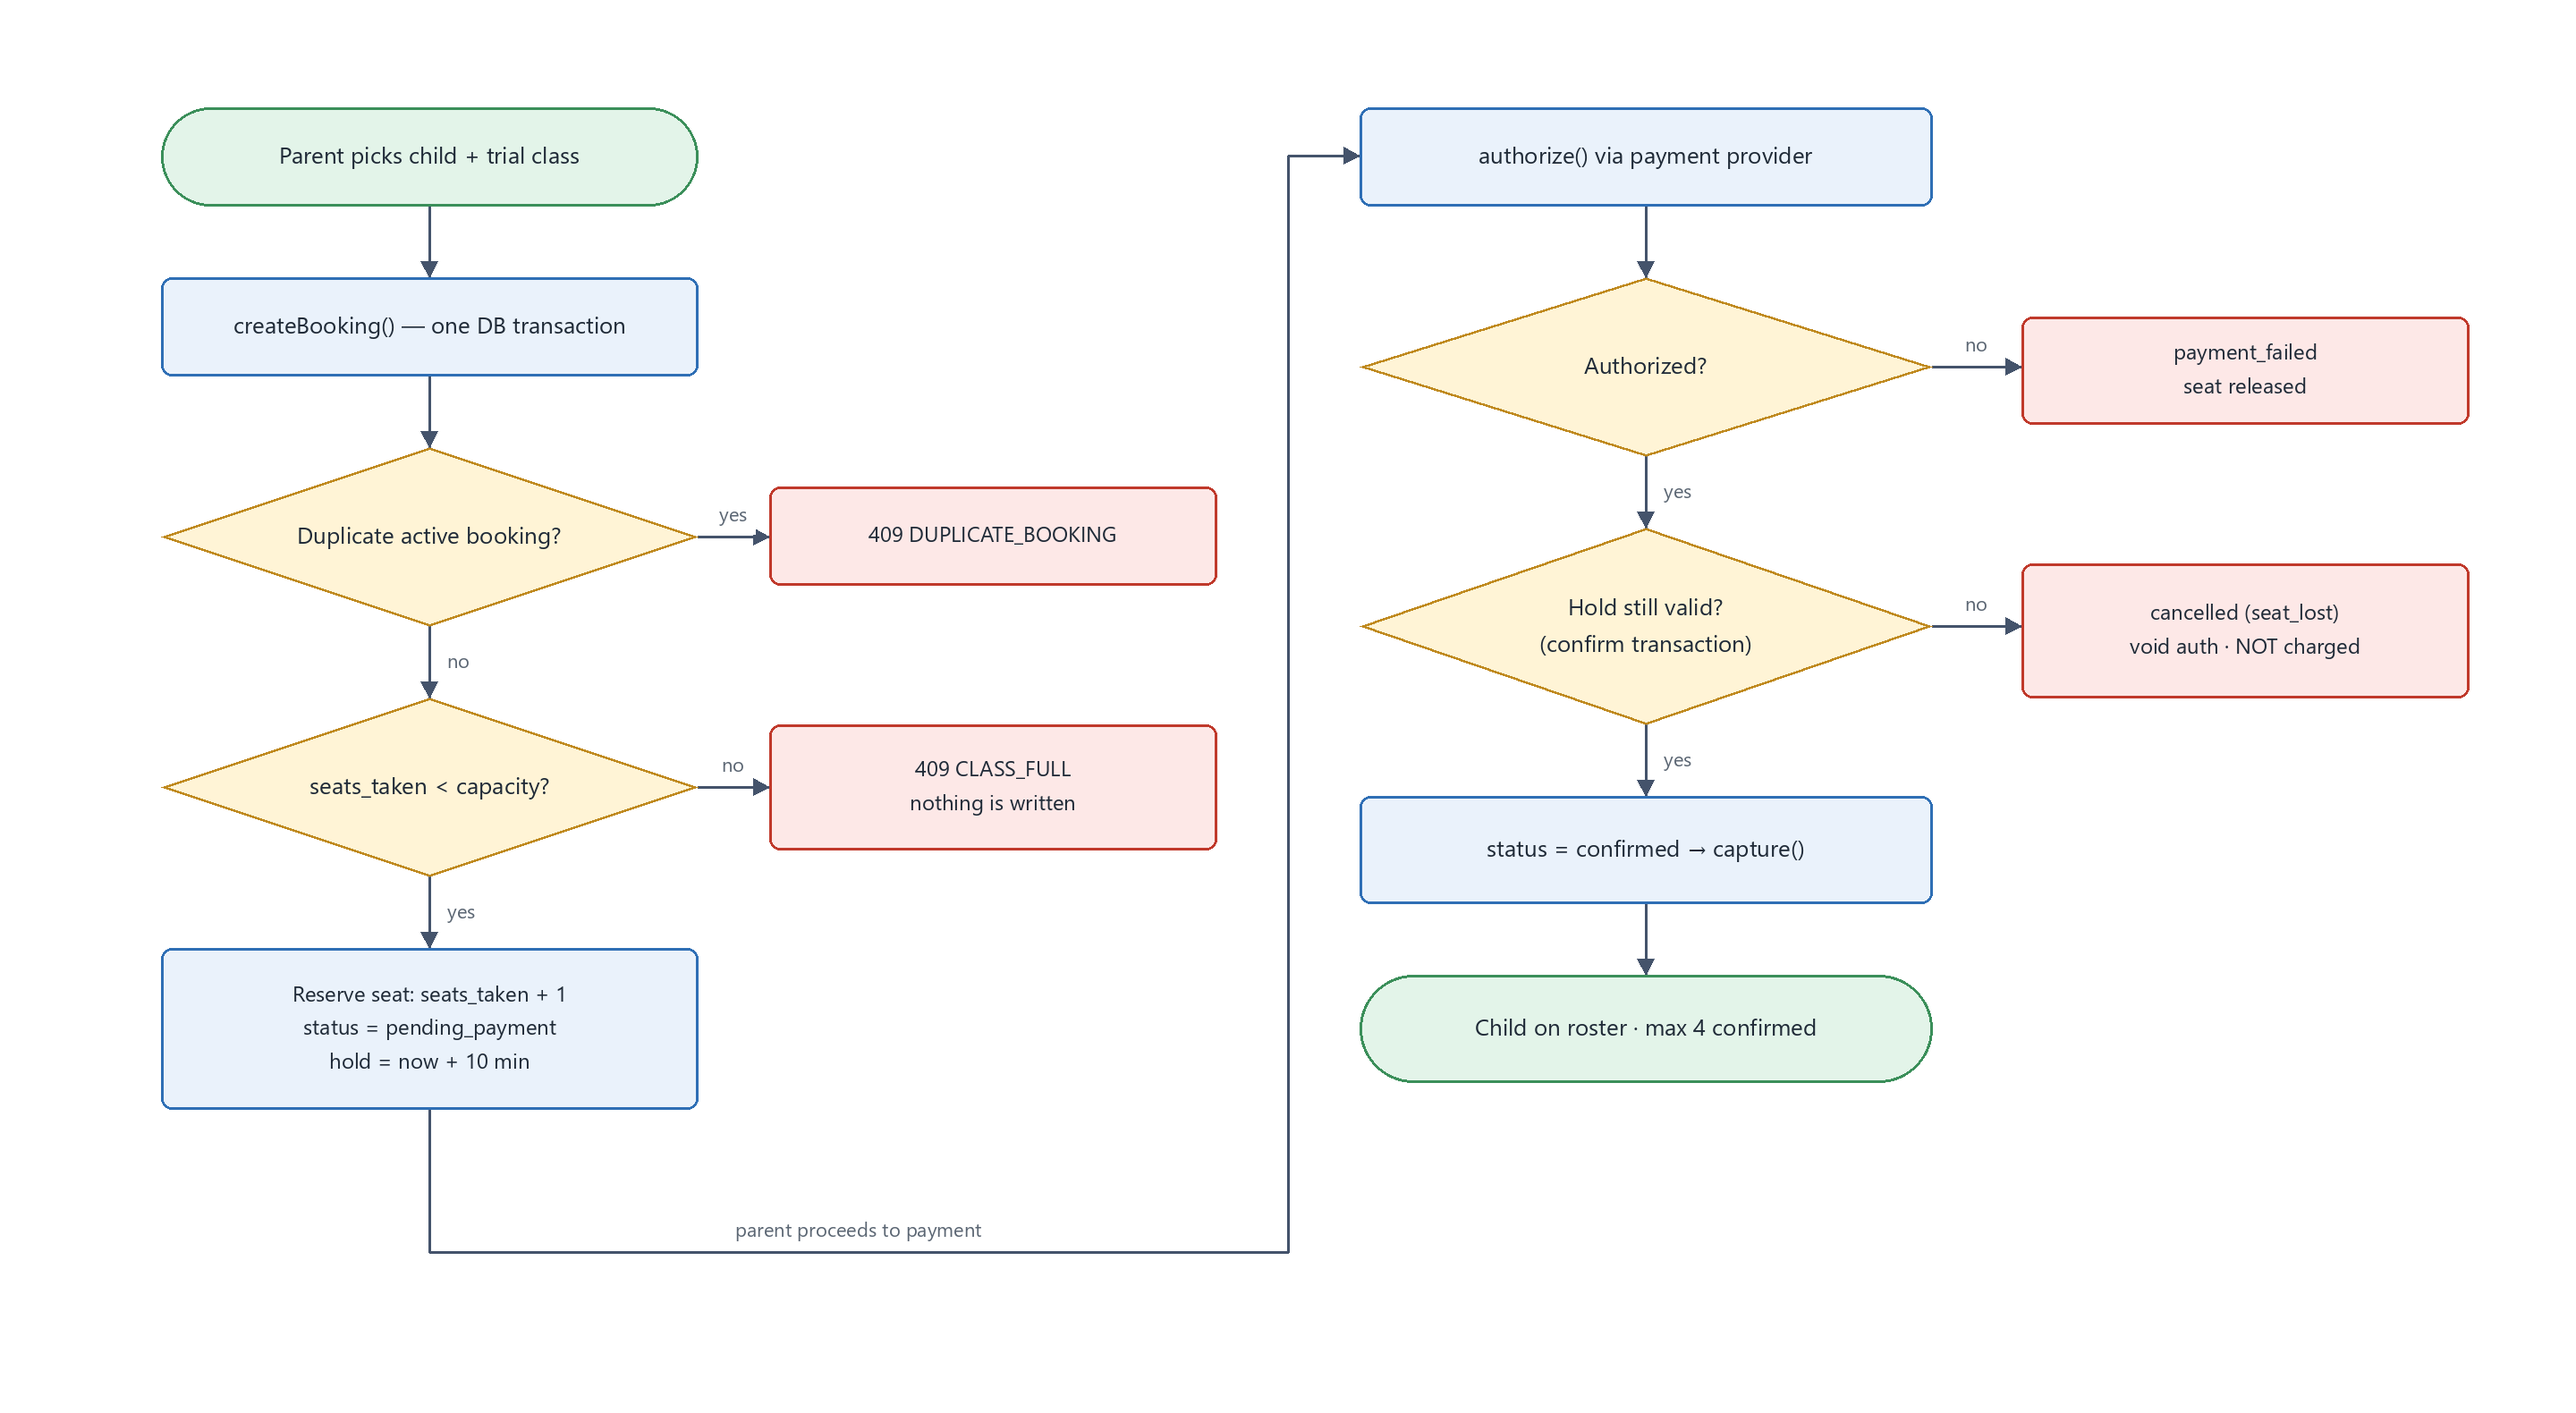
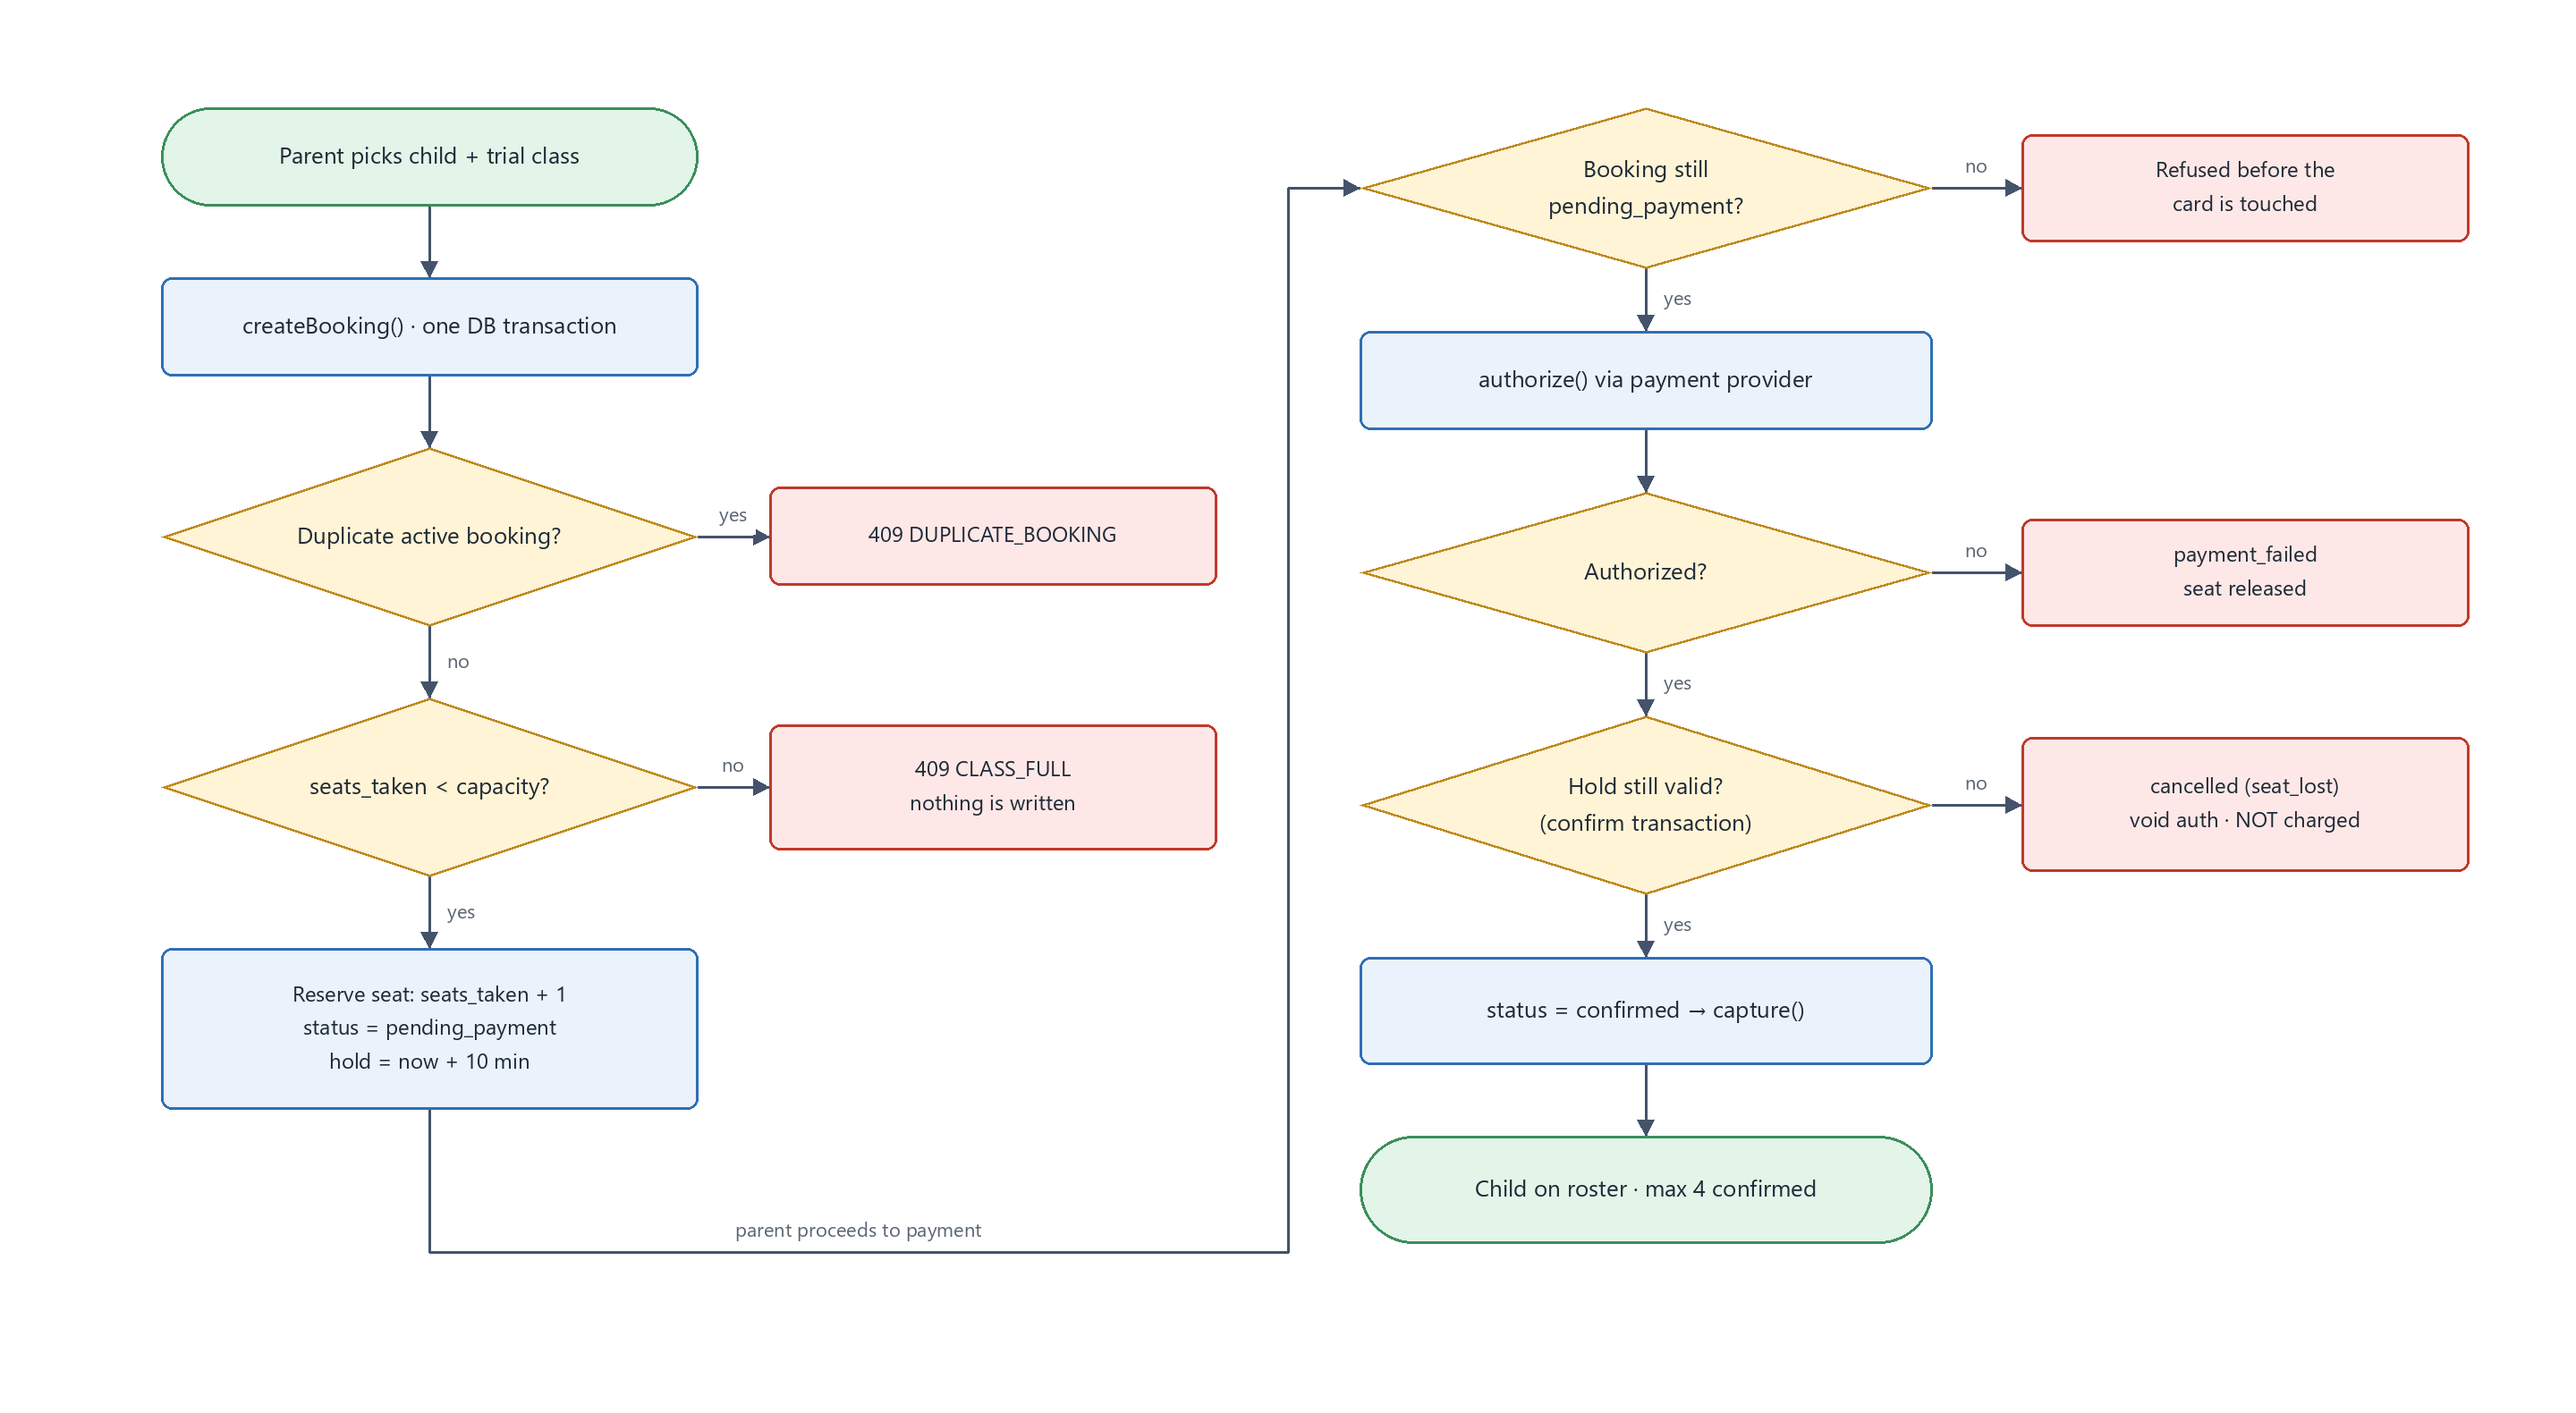
Update diagrams to match the shipped design

diff --git a/README.md b/README.md
@@ -6,7 +6,11 @@ expiring hold, money is never captured until a seat is confirmed in a committed
 transaction, and every one of those claims is backed by a test you can run in
 under a minute.
 
-**Time spent: ~1h 50m.** See [what I cut](#what-i-deliberately-cut).
+**Time spent: ~3 hours**, tracked per working session rather than estimated
+afterwards. Roughly: 35 min on research, design and diagrams; 20 min on the
+schema and its invariants; 45 min on the booking and payment domain plus tests;
+the remainder on the REST layer, the UI, the testing console and these docs.
+See [what I cut](#what-i-deliberately-cut).
 
 ---
 
@@ -30,22 +34,54 @@ booking for the last seat, and nobody is charged for a seat they did not get.*
 
 ## Run it
 
+### Fastest, nothing to install but Docker
+
+```bash
+docker compose up
+```
+
+Pulls [`syahmisani/poc-booking:latest`](https://hub.docker.com/r/syahmisani/poc-booking)
+alongside Postgres, creates the schema, seeds it, and serves on
+**http://localhost:3000**. No Node, no npm, no migrate step. Allow about 45
+seconds the first time, most of it pulling images; a few seconds after that.
+The app logs `16 classes seeded, 0 invariant violations` when it is ready.
+
+`docker compose down` stops it. Add `-v` to throw the data away as well.
+
+Prefer to build from this source tree rather than trust the published image?
+`docker compose up --build` does exactly that.
+
+### From source, if you want to run the tests
+
+The test suite is not in the image, because it needs devDependencies and a
+database it is allowed to truncate.
+
 ```bash
 docker compose up -d db     # Postgres on :55432 (not 5432, avoids collisions)
 npm install
 npm run db:reset            # migrate + seed, prints the seat audit
-npm test                    # 27 tests, including the concurrency suite
+npm test                    # 29 tests, including the concurrency suite
 npm run dev                 # http://localhost:3000
 ```
 
 No `.env` needed, the defaults in `src/config.ts` match docker-compose. Copy
 `.env.example` if you want to change anything.
 
+One caveat if you run both: the tests truncate the same database the app uses,
+so do not run `npm test` while clicking around in the browser.
+
+| | |
+|---|---|
+| **Image** | `syahmisani/poc-booking:latest` |
+| **App** | http://localhost:3000 |
+| **Postgres** | `localhost:55432`, user/password/db all `ottodot` |
+
 | Page | What it is |
 |---|---|
 | `/` | Pick a child, pick a class, book |
 | `/bookings/:id` | Booking status + payment (choose a card outcome) |
-| `/roster/:id` | What the teacher sees before class |
+| `/roster` | Every class, with seats left |
+| `/roster/:id` | What the teacher sees before class, and where a student can be removed |
 | **`/testing`** | **Testing console, drive every scenario solo** |
 
 ---
@@ -58,7 +94,7 @@ before either writes, both correctly conclude a seat exists and both write.
 Nobody loses, they both win, and the class has 5 children in it.
 
 That means you do not need two people or two networks. You need two requests
-in flight at once, and that is manufacturable on one laptop. Four ways, in
+in flight at once, and that is manufacturable on one laptop. Four levels, in
 increasing order of how much you have to trust me:
 
 ### Level 0, two `psql` windows, no application code at all
@@ -84,7 +120,8 @@ COMMIT;
 ```
 
 Open two terminals with
-`docker compose exec db psql -U ottodot -d ottodot` and paste.
+`docker compose exec db psql -U ottodot -d ottodot` and paste. No local `psql`
+needed, it runs inside the database container.
 
 The load-bearing detail: under **READ COMMITTED**, an `UPDATE` that blocks on a
 row lock **re-evaluates its `WHERE` clause against the newly committed row**
@@ -123,6 +160,12 @@ npm test
 4. `/testing` → *Expire this hold* with tab 1's booking id → *Run hold sweeper*
 5. Tab 2 books and pays → confirmed
 6. Tab 1 pays → refused, **not charged**
+
+![ways to force the race](docs/diagrams/fig4c_test_methods.png)
+
+The levels above are ordered by how much you have to trust me. The diagram is
+the same material grouped by *mechanism*: how each one manufactures the overlap,
+and what each one is therefore able to prove.
 
 ### Make the tests fail on purpose
 
@@ -278,7 +321,7 @@ Card tokens mirror Stripe's test-card convention: `tok_ok`,
 
 ## Tests
 
-27 tests against **real Postgres**, concurrency proven against an in-memory
+29 tests against **real Postgres**, concurrency proven against an in-memory
 fake proves nothing.
 
 | File | Covers |
